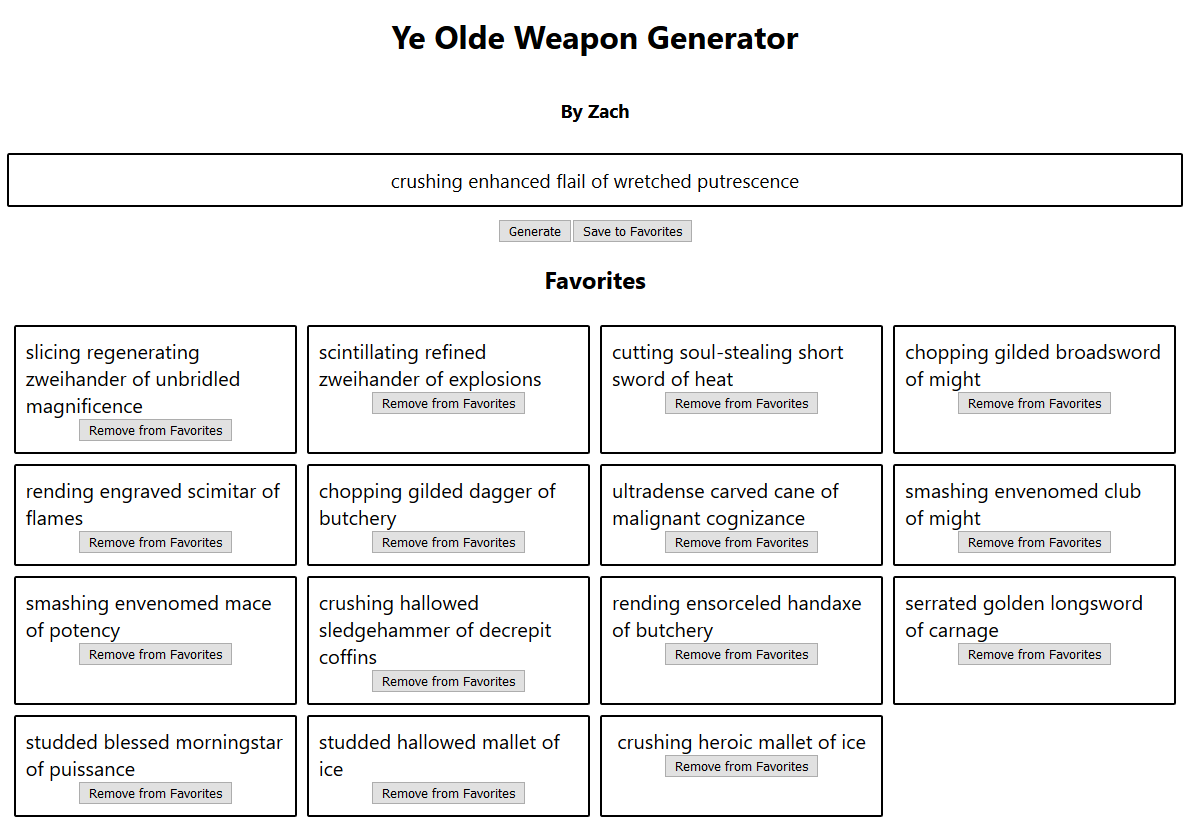
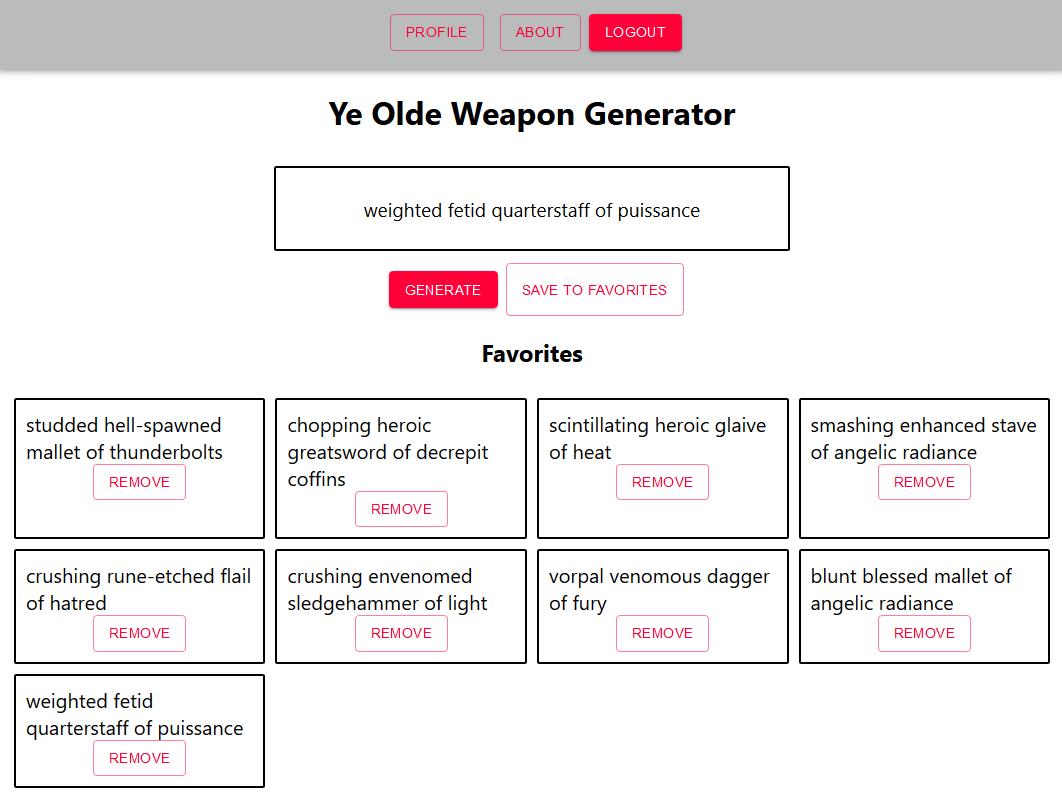
Updated site to reflect changes to weapon generator

Changed region(s): [[0.0, 0.1244, 1.0, 0.995], [0.0, 0.0, 1.0, 0.0933], [0.3107, 0.9328, 0.4661, 0.9639]]

diff --git a/src/components/index.js b/src/components/index.js
@@ -74,7 +74,7 @@ export const devData = [
         url: "https://legendary-weapon-generator.herokuapp.com/",
         github: "https://github.com/zheckert/legendary-weapon-generator",
         title: "Weapon Randomizer",
-        text: "This is a simple randomizer that will output a weird fantasy weapon. Using several ternary operators, it pulls from a pool of terms based on whether or not a blunt or bladed archetype is generated. Currently, you can save your favorites to a public group, with logins for individual favorites on the way. Made with React, Express.js, Node.js, and Mongoose.",
+        text: "This is a simple randomizer that will output a weird fantasy weapon. Using several ternary operators, it pulls from a pool of terms based on whether or not a blunt or bladed archetype is generated. In the newest iteration of the project, users interested in saving their favorites can create an account and login. Made with React, Express.js, Node.js, and Mongoose.",
     },
     {
         src: todo,
